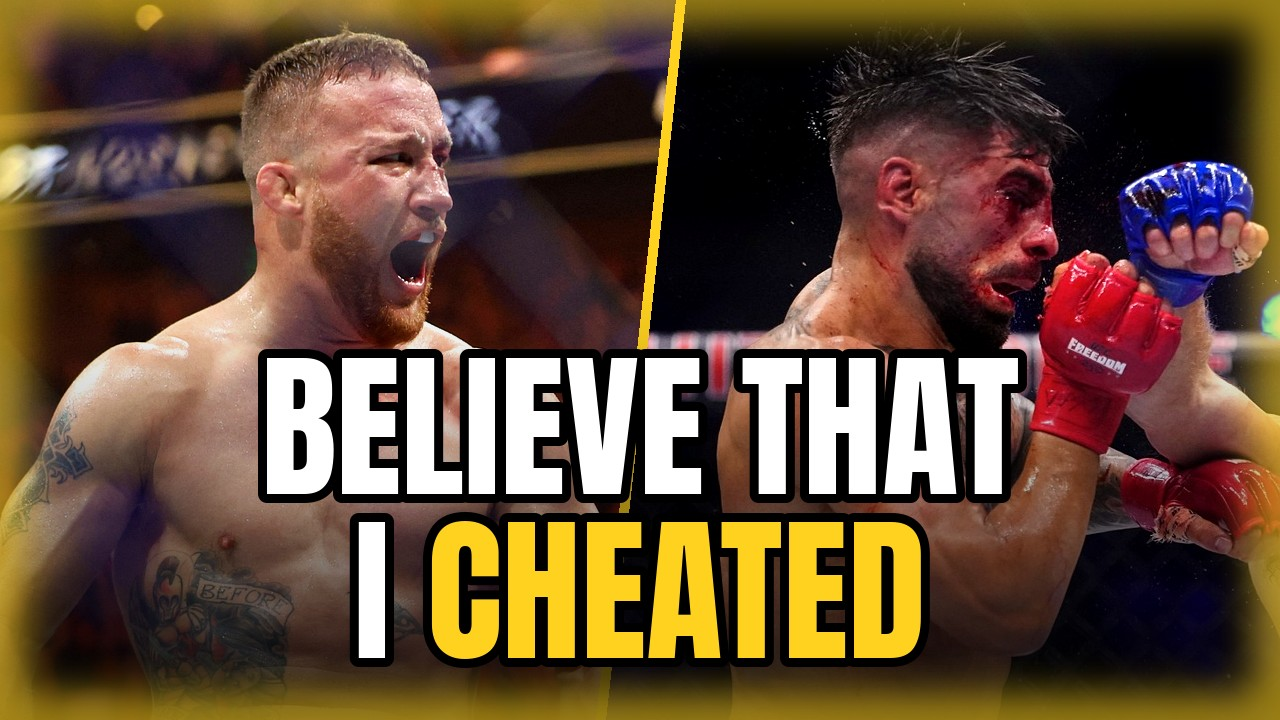
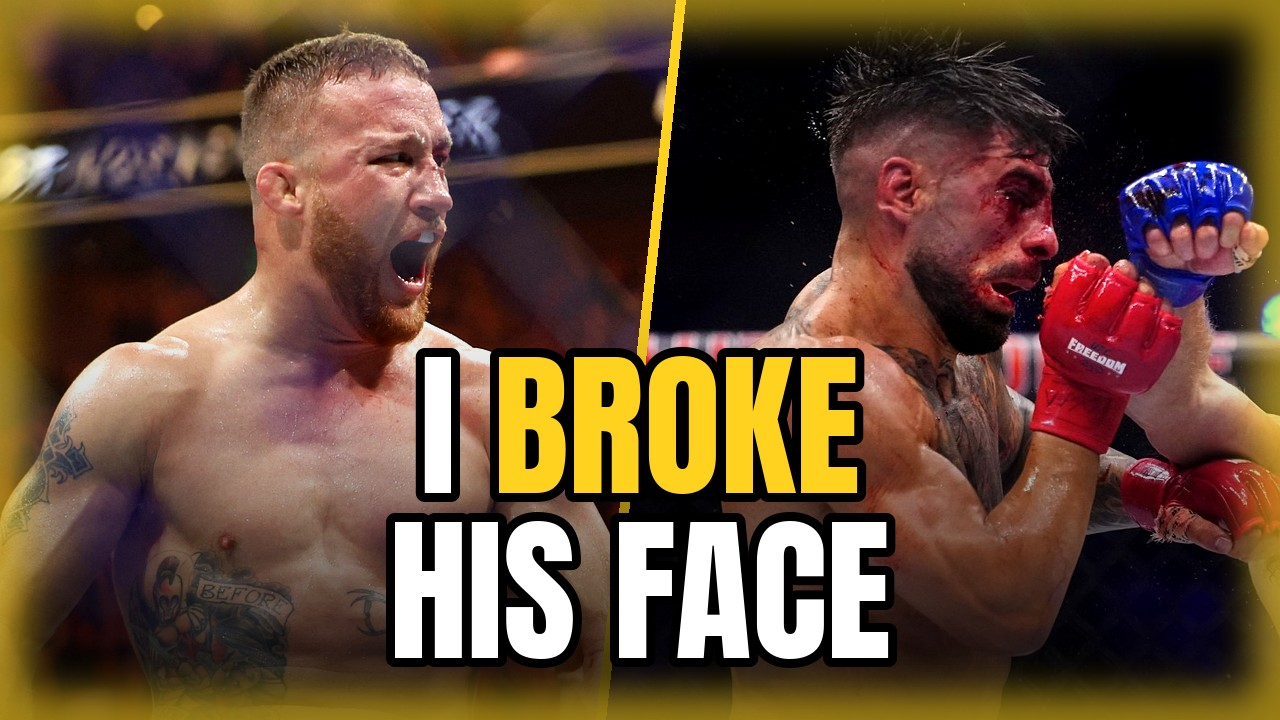
Gaethje thumbnail: validated photos, catchier real quote (I BROKE HIS FACE), two-line text sits higher
Claude-Session: https://claude.ai/code/session_015o5g6LdDicYeciswVaX7i1

Changed region(s): [[0.1875, 0.4583, 0.8125, 0.9472]]

diff --git a/services/newsvid_thumb.py b/services/newsvid_thumb.py
@@ -257,7 +257,7 @@ def _text_block(canvas, text, highlight, accent, y_bottom, max_w):
     from PIL import ImageDraw, ImageFont
     words = text.upper().split()
     hl = {w.strip(".,!?\"'“”").upper() for w in re.findall(r"\S+", highlight or "")}
-    lines = [words] if len(" ".join(words)) <= 16 else None
+    lines = [words] if len(" ".join(words)) <= 10 else None  # au-delà : 2 lignes, plus gros et plus haut
     if not lines:
         best = None
         for k in range(1, len(words)):
